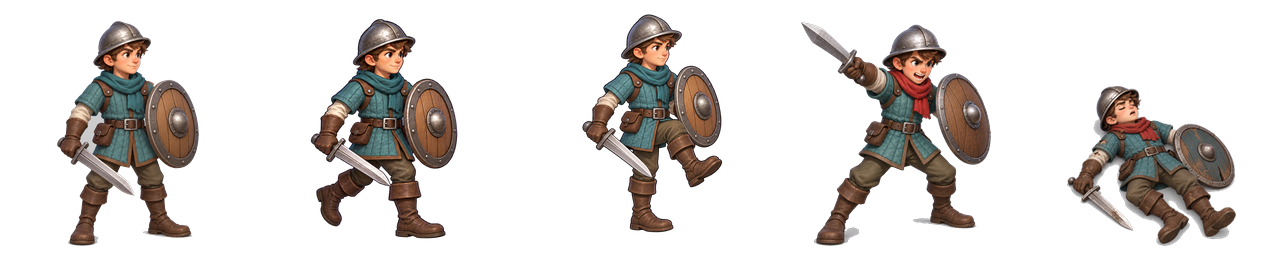
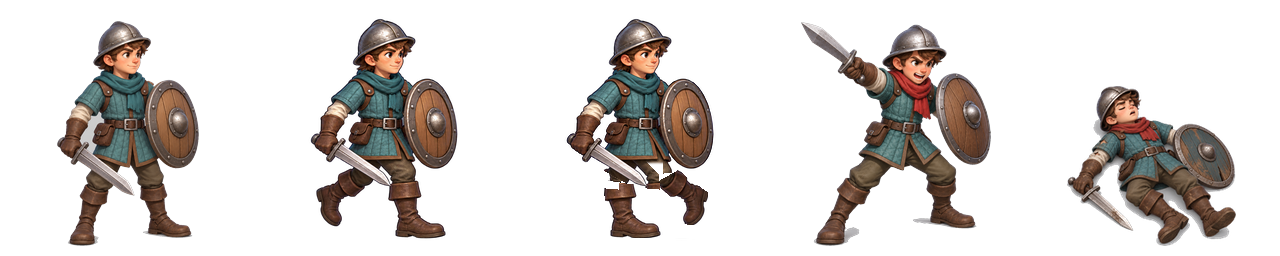
Repair militia alternating-leg walk using its own pixels
Preserve upper body and other action frames. Reviewed at 256 px and game size, 6 fps; typecheck, 158 tests and three art checks pass.

Changed region(s): [[0.4375, 0.0625, 0.5625, 0.9375]]

diff --git a/src/art/registry.ts b/src/art/registry.ts
@@ -46,7 +46,7 @@ export interface TextureSpec {
 // The query is intentional. Painted files are stable public URLs rather than
 // Vite-hashed imports, so a version here guarantees that a deployed art pass
 // cannot be hidden behind an older service-worker entry.
-export const PAINTED_MANIFEST_URL = 'assets/painted/manifest.json?v=regional-environment-34';
+export const PAINTED_MANIFEST_URL = 'assets/painted/manifest.json?v=regional-environment-35';
 
 function specs(drawn: ReadonlySet<string> = new Set()): TextureSpec[] {
   const out: TextureSpec[] = [];

diff --git a/docs/WALK_CYCLE_QA.md b/docs/WALK_CYCLE_QA.md
@@ -2,11 +2,10 @@
 
 All 34 manifest entries whose movement animation points to two frames (`walk: [1, 2]`) were inspected at full sheet resolution. The frame mapping alone does not prove alternate legs.
 
-## Repair required: 23 grounded characters
+## Repair required: 22 grounded characters
 
 In every pair below, the same anatomical leg appears ahead in both movement cells, even when the stride or knee height changes. These sheets must not be counted as completed alternating-leg walks.
 
-- `unit.militia.frames`
 - `unit.archer.frames`
 - `unit.goblin.frames`
 - `unit.goblin_bomber.frames`
@@ -46,7 +45,7 @@ These have visibly different wing or trailing-form silhouettes across the two mo
 - `unit.black_hawk.frames`
 - `unit.succubus.frames`
 
-The arbalest remains on `walk: [0]`. Several generated arbalest and militia replacement drafts repeated the leading leg and were rejected before import. The 23 defects above add to, rather than replace, the manifest entries still using idle as their walk.
+The militia sheet was repaired by compositing its own lower-body pixels: the near leg trails and the far leg leads in the second frame, with right-facing boots and unchanged upper body. It was reviewed at 256 px, 96 px, and 6 fps. The arbalest remains on `walk: [0]`. Several generated arbalest and militia replacement drafts repeated the leading leg and were rejected before import. The 22 defects above add to, rather than replace, the manifest entries still using idle as their walk.
 
 ## Acceptance gate for each new or repaired sheet
 
